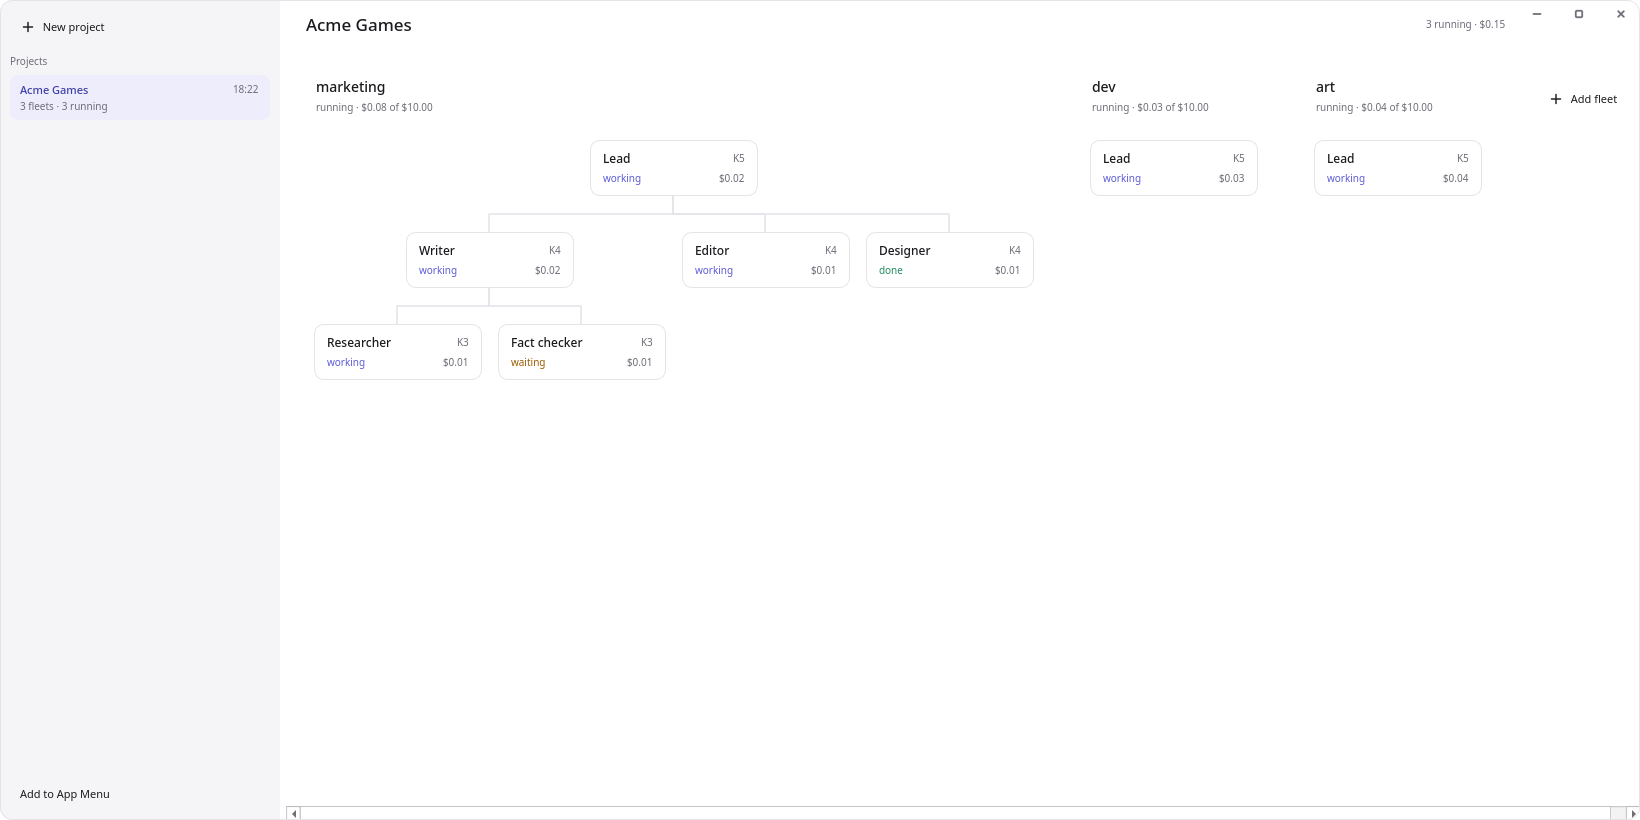
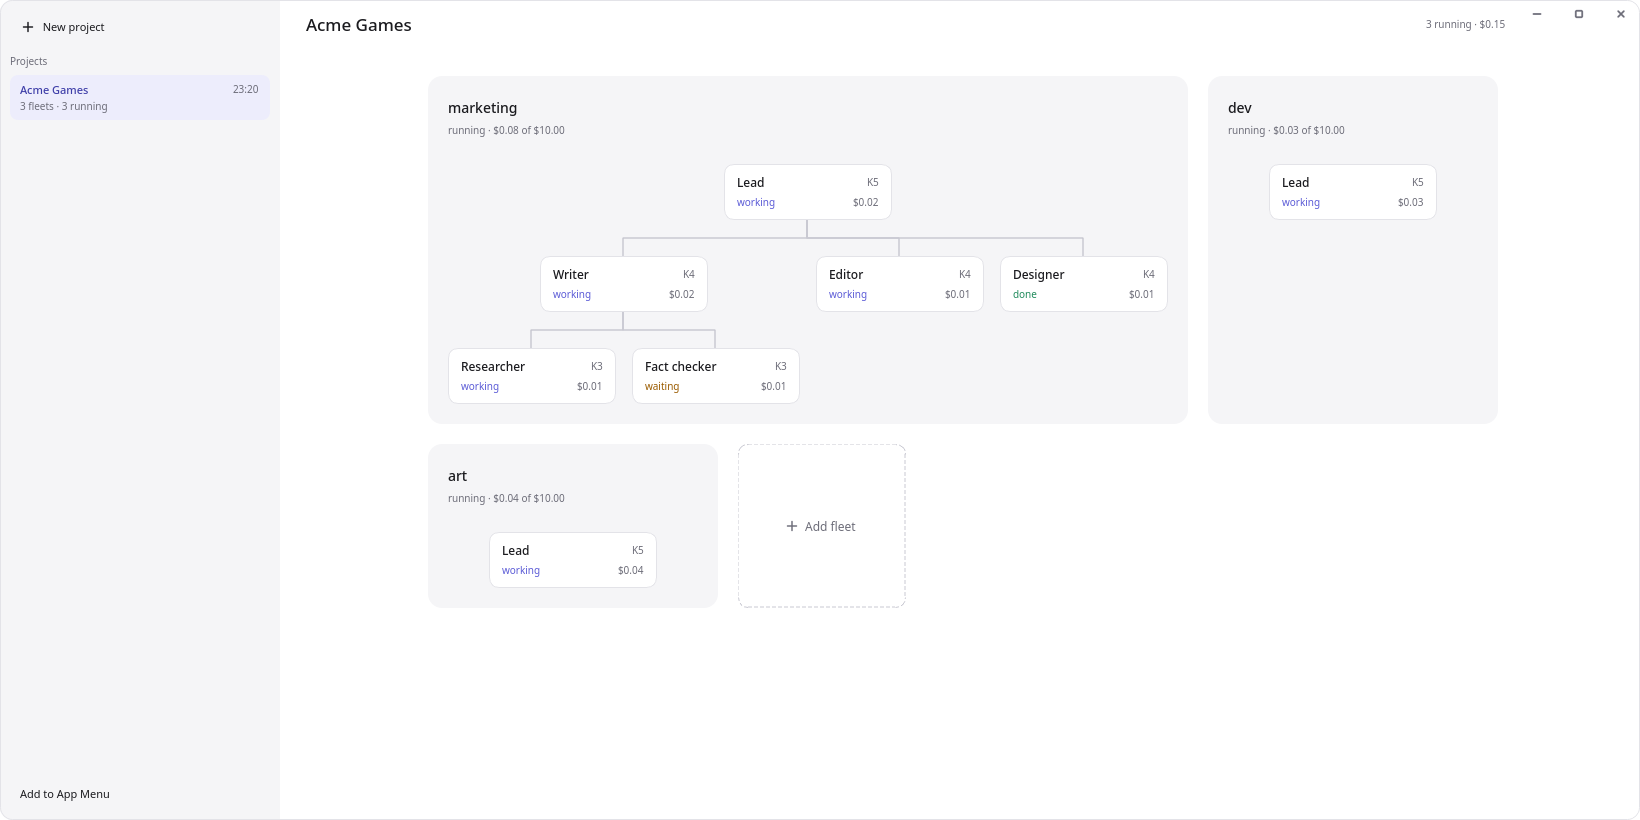
Draw each fleet as a card, in the middle, on as many lines as they need
The chart was a few small things in the top left corner of an empty screen,
with Start pressed against the fleet's state.

diff --git a/src/kfm/chart.py b/src/kfm/chart.py
@@ -1,4 +1,4 @@
-"""A project's chart: its fleets side by side, each drawn as the tree of who supervises
+"""A project's chart: its fleets side by side, each a card with the tree of who supervises
 whom, a row for each rank."""
 
 from __future__ import annotations
@@ -16,6 +16,7 @@ from PySide6.QtGui import (
     QPainter,
     QPaintEvent,
     QPen,
+    QResizeEvent,
 )
 from PySide6.QtWidgets import (
     QFrame,
@@ -32,8 +33,13 @@ from kfm.fleet import Fleet, Unit
 NODE_W, NODE_H = 168, 56  # px, an agent
 GAP_X, GAP_Y = 16, 36  # between agents side by side, and between ranks
 HEAD_H = 46  # a fleet's name and state
-FLEET_GAP = 56  # between fleets
+HEAD_GAP = 22  # under it, before the tree
+PAD = 20  # inside a fleet's card
+INNER_MIN = 250  # the least a card holds across: its name, its state and Start
+FLEET_GAP = 20  # between fleets
+ADD_W = 168  # the place for another fleet
 MARGIN = 28
+RADIUS = 14
 
 
 @dataclass(frozen=True, slots=True)
@@ -42,8 +48,9 @@ class ChartFleet:
     name: str
     status: str
     fleet: Fleet | None  # None until its record is read
+    running: bool = False
     editable: bool = False  # agents can be added to it and changed
-    startable: bool = False  # it is not running and has agents that would start
+    start: str = ""  # what its button says while it can be started: "Start", "Resume"
 
 
 def slots(fleet: Fleet) -> tuple[dict[str, tuple[float, int]], float]:
@@ -113,7 +120,7 @@ class Node(_Box):
     def contextMenuEvent(self, event: QContextMenuEvent) -> None:
         self.menu.popup(event.globalPos())
 
-    def show_unit(self, unit: Unit, editable: bool) -> None:
+    def show_unit(self, unit: Unit, editable: bool, running: bool) -> None:
         self.add_action.setEnabled(editable and unit.rank > 1)
         self.model_action.setEnabled(editable)
         room = NODE_W - 24 - 30  # beside the rank
@@ -122,9 +129,10 @@ class Node(_Box):
         self.rank.setText(f"K{unit.rank}")
         self.state.setText(unit.state)
         colors = theme.current()
+        # What an agent was doing when its fleet stopped is not what it does now.
         tone = {"working": colors.accent, "starting": colors.accent,
-                "waiting": colors.warning, "failed": colors.error,
-                "done": colors.ok}.get(unit.state, colors.muted)
+                "waiting": colors.warning}.get(unit.state, colors.muted) if running else colors.muted
+        tone = {"failed": colors.error, "done": colors.ok}.get(unit.state, tone)
         self.state.setStyleSheet(f"color: {tone};")
         self.spent.setText(f"${unit.spent_usd:.2f}")
         self.setToolTip(f"{unit.task}\n{unit.model}" if unit.model else unit.task)
@@ -144,7 +152,8 @@ class Head(_Box):
         rows.addWidget(self.name)
         rows.addWidget(self.status)
         across = QHBoxLayout(self)
-        across.setContentsMargins(2, 0, 2, 4)
+        across.setContentsMargins(0, 0, 0, 0)
+        across.setSpacing(12)
         across.addLayout(rows, 1)
         across.addWidget(self.start, 0, Qt.AlignmentFlag.AlignVCenter)
 
@@ -169,63 +178,103 @@ class Chart(QWidget):
             f"QFrame#node:hover {{ border-color: {colors.accent}; }}"
             f"QFrame#fleetHead {{ border: none; }}"
             f"QPushButton#firstAgent {{ background: transparent; color: {colors.muted}; "
-            f"border: 1px dashed {colors.line}; border-radius: 10px; }}"
-            f"QPushButton#firstAgent:hover {{ border-color: {colors.accent}; }}")
+            f"border: 1px dashed {colors.track}; border-radius: 10px; }}"
+            f"QPushButton#firstAgent:hover {{ border-color: {colors.accent}; "
+            f"color: {colors.text}; }}")
         self.nodes: dict[tuple[str, str], Node] = {}
         self.heads: dict[str, Head] = {}
         self.firsts: dict[str, QPushButton] = {}  # where a fleet with no agent gets its lead
         self._lines: list[tuple[QPointF, QPointF]] = []  # a supervisor's foot, an agent's top
-        self.add_button = QPushButton(" Add fleet", self, objectName="nav")
-        self.add_button.setIcon(theme.icon("plus", colors.text, 16))
-        self.add_button.adjustSize()
+        self._cards: list[QRect] = []
+        self._shown: list[ChartFleet] = []
+        self.add_button = QPushButton(" Add fleet", self, objectName="firstAgent")
+        self.add_button.setIcon(theme.icon("plus", colors.muted, 16))
+        self.add_button.setCursor(Qt.CursorShape.PointingHandCursor)
 
     def show_fleets(self, fleets: Sequence[ChartFleet]) -> None:
-        """Draw `fleets` from left to right; boxes of what is gone are removed."""
-        x, lowest = MARGIN, 0
+        """Draw `fleets` from left to right, in the middle, on as many lines as they need;
+        boxes of what is gone are removed."""
+        self._shown = list(fleets)
+        placed = [slots(shown.fleet) if shown.fleet is not None else ({}, 1.0)
+                  for shown in fleets]
+        inners = [max(round(columns * NODE_W + (columns - 1) * GAP_X), INNER_MIN)
+                  for _, columns in placed]
+        # Cards fill a line and then start the next; the place for another fleet is last.
+        widths = [inner + 2 * PAD for inner in inners] + [ADD_W]
+        room = max(self.width() - 2 * MARGIN, max(widths))
+        lines: list[list[int]] = [[]]
+        used = 0
+        for i, width in enumerate(widths):
+            if lines[-1] and used + width > room:
+                lines.append([])
+                used = 0
+            lines[-1].append(i)
+            used += width + FLEET_GAP
+        widest = max(sum(widths[i] + FLEET_GAP for i in line) - FLEET_GAP for line in lines)
+        start = max(MARGIN, (self.width() - widest) // 2)
         nodes: dict[tuple[str, str], Node] = {}
         heads: dict[str, Head] = {}
         firsts: dict[str, QPushButton] = {}
-        self._lines = []
-        top = MARGIN + HEAD_H + GAP_Y // 2
-        for shown in fleets:
-            at, columns = slots(shown.fleet) if shown.fleet is not None else ({}, 1.0)
-            width = round(columns * NODE_W + (columns - 1) * GAP_X)
-            head = heads[shown.key] = self.heads.pop(shown.key, None) or self._head(shown.key)
-            head.name.setText(shown.name)
-            head.status.setText(shown.status)
-            head.start.setVisible(shown.startable)
-            head.setGeometry(x, MARGIN, width, HEAD_H)
-            head.show()
-            if shown.fleet is not None and not shown.fleet.units and shown.editable:
-                first = firsts[shown.key] = (self.firsts.pop(shown.key, None)
-                                             or self._first(shown.key))
-                first.setGeometry(x, top, NODE_W, NODE_H)
-                first.show()
-                lowest = max(lowest, 1)
-            placed: dict[str, QRect] = {}
-            for unit_id, (column, row) in at.items():
-                key = (shown.key, unit_id)
-                node = nodes[key] = self.nodes.pop(key, None) or self._node(*key)
-                node.show_unit(shown.fleet.units[unit_id], shown.editable)  # type: ignore[union-attr]
-                placed[unit_id] = QRect(x + round(column * (NODE_W + GAP_X)),
-                                        top + row * (NODE_H + GAP_Y), NODE_W, NODE_H)
-                node.setGeometry(placed[unit_id])
-                node.show()
-                lowest = max(lowest, row + 1)
-            for unit_id, rect in placed.items():
-                above = placed.get(shown.fleet.units[unit_id].supervisor or "")  # type: ignore[union-attr]
-                if above is not None:
-                    self._lines.append((QPointF(above.center().x(), above.bottom() + 1),
-                                        QPointF(rect.center().x(), rect.top())))
-            x += width + FLEET_GAP
+        self._lines, self._cards = [], []
+        y = MARGIN
+        for line in lines:
+            ranks = max((row + 1 for i in line if i < len(fleets)
+                         for _, row in placed[i][0].values()), default=1)
+            height = PAD + HEAD_H + HEAD_GAP + ranks * NODE_H + (ranks - 1) * GAP_Y + PAD
+            x = start
+            for i in line:
+                if i == len(fleets):
+                    self.add_button.setGeometry(x, y, ADD_W, height)
+                else:
+                    self._place(fleets[i], placed[i][0], placed[i][1], inners[i],
+                                QRect(x, y, widths[i], height), nodes, heads, firsts)
+                x += widths[i] + FLEET_GAP
+            y += height + FLEET_GAP
         for gone in (*self.nodes.values(), *self.heads.values(), *self.firsts.values()):
             gone.setParent(None)
             gone.deleteLater()
         self.nodes, self.heads, self.firsts = nodes, heads, firsts
-        self.add_button.move(x, MARGIN + (HEAD_H - self.add_button.height()) // 2)
-        self.setMinimumSize(x + self.add_button.width() + MARGIN,
-                            top + lowest * (NODE_H + GAP_Y) + MARGIN)
+        self.setMinimumSize(max(widths) + 2 * MARGIN, y - FLEET_GAP + MARGIN)
         self.update()
+
+    def _place(self, shown: ChartFleet, at: dict[str, tuple[float, int]], columns: float,
+               inner: int, card: QRect, nodes: dict[tuple[str, str], Node],
+               heads: dict[str, Head], firsts: dict[str, QPushButton]) -> None:
+        """One fleet in its card: its head, then its tree in the middle."""
+        self._cards.append(card)
+        x, top = card.x(), card.y() + PAD + HEAD_H + HEAD_GAP
+        head = heads[shown.key] = self.heads.pop(shown.key, None) or self._head(shown.key)
+        head.name.setText(shown.name)
+        head.status.setText(shown.status)
+        head.start.setText(shown.start)
+        head.start.setVisible(bool(shown.start))
+        head.setGeometry(x + PAD, card.y() + PAD, inner, HEAD_H)
+        head.show()
+        width = round(columns * NODE_W + (columns - 1) * GAP_X)
+        left = x + PAD + (inner - width) // 2
+        if shown.fleet is not None and not shown.fleet.units and shown.editable:
+            first = firsts[shown.key] = (self.firsts.pop(shown.key, None)
+                                         or self._first(shown.key))
+            first.setGeometry(left, top, NODE_W, NODE_H)
+            first.show()
+        boxes: dict[str, QRect] = {}
+        for unit_id, (column, row) in at.items():
+            key = (shown.key, unit_id)
+            node = nodes[key] = self.nodes.pop(key, None) or self._node(*key)
+            node.show_unit(shown.fleet.units[unit_id],  # type: ignore[union-attr]
+                           shown.editable, shown.running)
+            boxes[unit_id] = QRect(left + round(column * (NODE_W + GAP_X)),
+                                   top + row * (NODE_H + GAP_Y), NODE_W, NODE_H)
+            node.setGeometry(boxes[unit_id])
+            node.show()
+        for unit_id, rect in boxes.items():
+            above = boxes.get(shown.fleet.units[unit_id].supervisor or "")  # type: ignore[union-attr]
+            if above is not None:
+                self._lines.append((QPointF(above.center().x(), above.bottom() + 1),
+                                    QPointF(rect.center().x(), rect.top())))
+
+    def resizeEvent(self, event: QResizeEvent) -> None:
+        self.show_fleets(self._shown)
 
     def _head(self, key: str) -> Head:
         head = Head(self)
@@ -250,7 +299,13 @@ class Chart(QWidget):
     def paintEvent(self, event: QPaintEvent) -> None:
         painter = QPainter(self)
         painter.setRenderHint(QPainter.RenderHint.Antialiasing)
-        painter.setPen(QPen(QColor(theme.current().line), 1.5))
+        colors = theme.current()
+        painter.setPen(Qt.PenStyle.NoPen)
+        painter.setBrush(QColor(colors.card))
+        for card in self._cards:
+            painter.drawRoundedRect(card, RADIUS, RADIUS)
+        painter.setBrush(Qt.BrushStyle.NoBrush)
+        painter.setPen(QPen(QColor(colors.track), 1.5))
         for foot, head in self._lines:  # down, across at half height, down
             middle = (foot.y() + head.y()) / 2
             painter.drawPolyline([foot, QPointF(foot.x(), middle),

diff --git a/src/kfm/desktop.py b/src/kfm/desktop.py
@@ -1477,8 +1477,11 @@ class FleetWindow(QMainWindow):
             if on_chart:
                 self.chart.show_fleets([ChartFleet(str(shown.folder), shown.name,
                                                    shown.status, shown.fleet,
+                                                   running=shown.running,
                                                    editable=not shown.stopping,
-                                                   startable=shown.can_resume)
+                                                   start="" if not shown.can_resume
+                                                   else "Resume" if shown.started
+                                                   else "Start")
                                         for shown in fleets])
             return
         self.title.setText(view.name)

diff --git a/.agents/decisions.md b/.agents/decisions.md
@@ -35,7 +35,7 @@ Design: [Agent Note](notes/implemented/2026-11-12-fleet-window.md).
 | New fleet | In `<project>/fleets/<date-time>/` (with `-2`, `-3` when that exists), with the settings of `<home>/fleet.toml` and the limit from its screen |
 | Projects | `<home>/projects/<date-time>/project.json` (`format` 1: name, work folder). Listed in the sidebar, newest first, drawn by Kayden's `RowDelegate` with the number of fleets and how many run; the window opens on the newest. Fleets of a project left open keep running |
 | Draft | A new project's box takes what it should do; left empty, the project is filled by hand. The drafting agent is unit `u1` "Planner" at the top rank, in `<project>/planner/`, with the settings' model for that rank, their permissions and one agent's limit; its tool server has the one tool `propose(teams)`, each team a name, what it does and `ongoing` (true unless said), and refuses an empty list and a repeated name. The draft page's limit is for each fleet. Start is refused while a fleet lacks a name or what it does, or two share a name |
-| Chart | A fleet's tree by `chart.slots`: an agent with nobody under it takes a column, a supervisor stands over the middle of its agents, the row is the rank's distance from the top. Agents are 168 x 56 px boxes joined by elbow lines; fleets stand 56 px apart, in the order they were made; "Add fleet" follows the last. Redrawn every second and on every event, keeping the boxes |
+| Chart | A fleet's tree by `chart.slots`: an agent with nobody under it takes a column, a supervisor stands over the middle of its agents, the row is the rank's distance from the top. Agents are 168 x 56 px boxes joined by elbow lines. Each fleet is a card (the theme's `card` colour, 14 px corners, at least 250 px across inside) with its name, its state and Start or Resume at the top and its tree in the middle; cards stand 20 px apart in the order the fleets were made, in the middle of the screen, and go on to the next line when the window is too narrow, so the chart never scrolls sideways unless one fleet is wider than the window. Cards on a line are as tall as the deepest tree on it. "Add fleet" is a dashed place of a card's height after the last. While a fleet does not run, what its agents were doing (working, waiting) is shown muted; done and failed keep their colour. Redrawn every second, on every event and when the window is resized, keeping the boxes |
 | Agent menu | Right-click on a chart box: "Add agent…" (not for a K1) and "Model…", in a running fleet and a stopped one (not while it is stopping). A fleet with no agent shows a dashed "Add agent" box where its lead goes. A fleet that can be started shows Start beside its name; a start that fails opens the fleet, where the reason is written. An agent placed while its fleet does not run has the state `planned`. Add agent is a dialog with name, task, Task or Duty (Task unless chosen), and model; what the fleet refuses is shown in it and it stays open. An agent's own model is in its box's tooltip. `fleet.json` is format 5 with each unit's `model` |
 | Bar | 48 px. On the chart: the project's name, how many fleets run and what the project has spent. In a fleet: an arrow back to the chart, the fleet's name, its status, Stop or Resume |
 | Column | One column of at most 860 px in the middle of the window; the message box below it is as wide |
